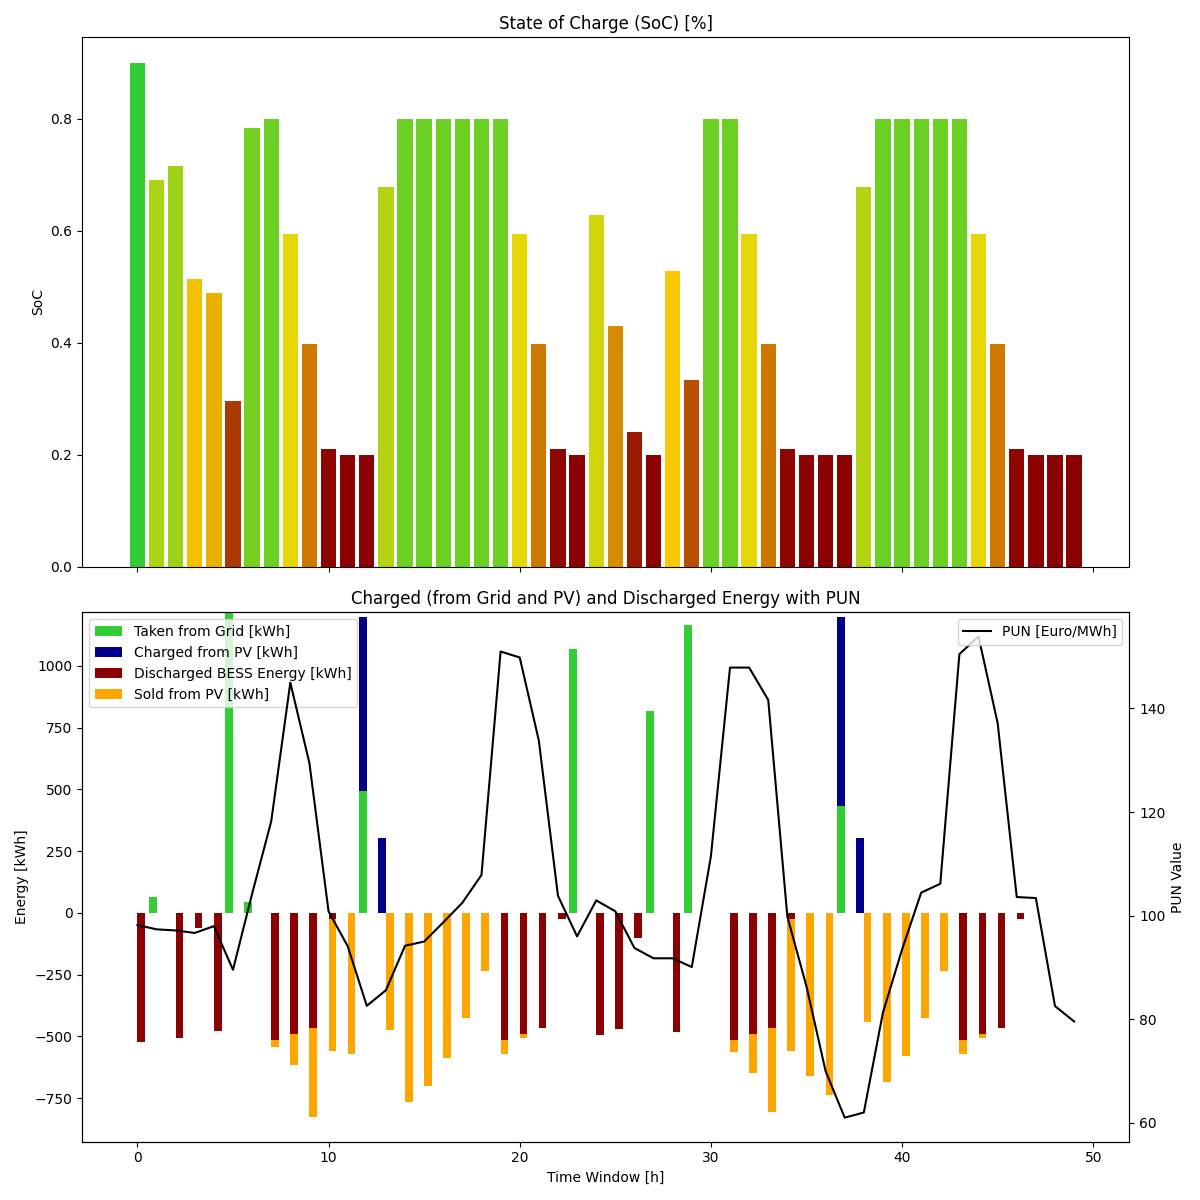
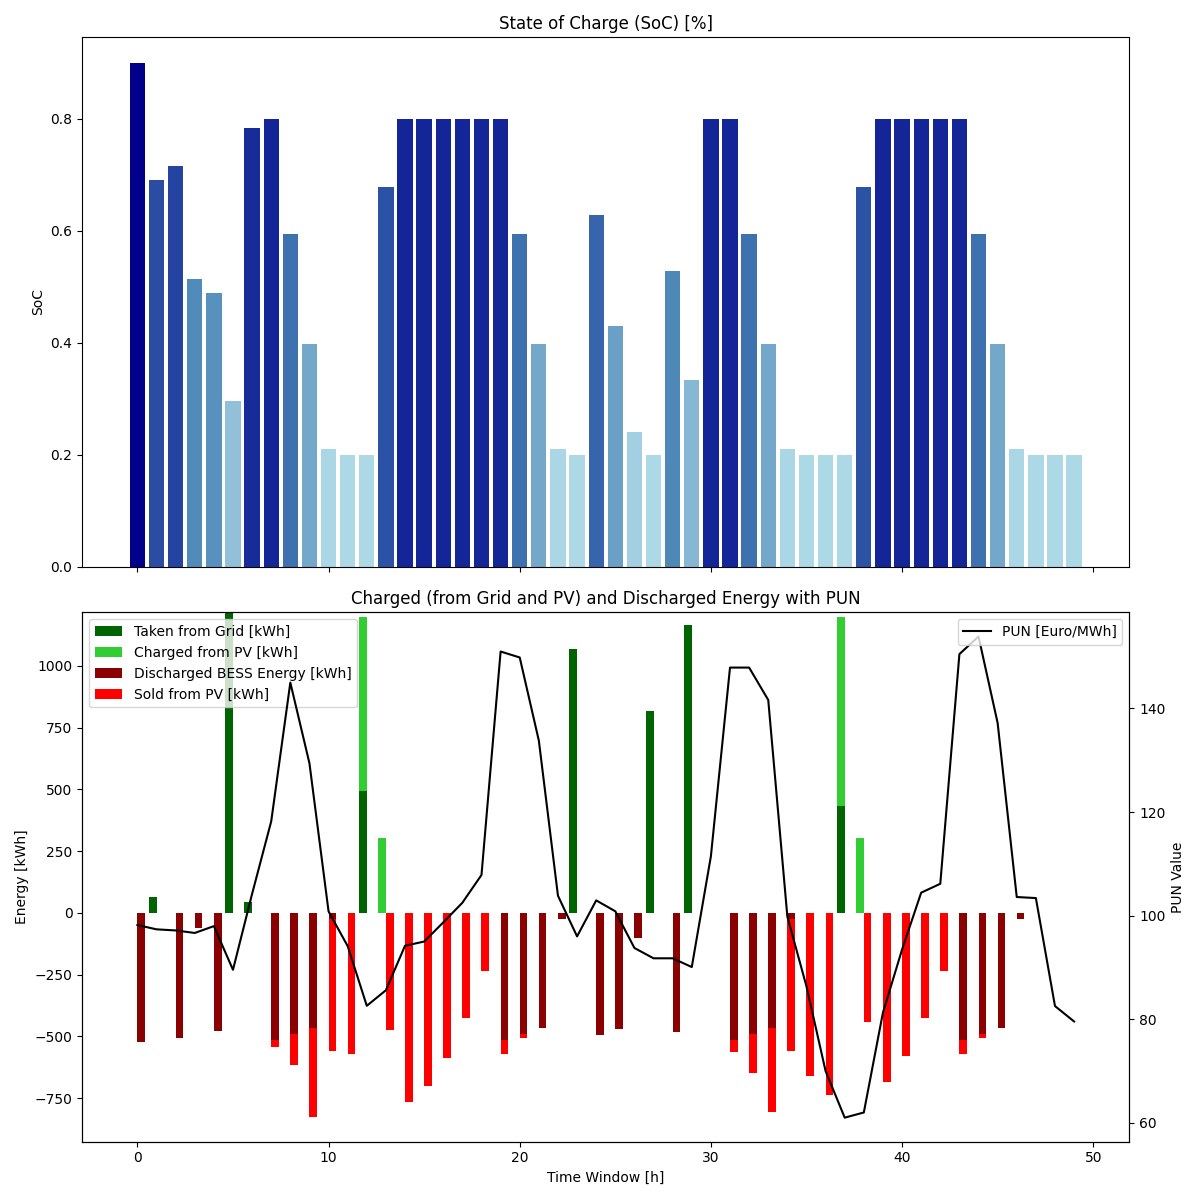
Updated plots and figures

diff --git a/Plots.py b/Plots.py
@@ -81,7 +81,7 @@ class EnergyPlots:
 
         # Normalize SoC values to be in the range [0, 1] for the colormap
         norm = Normalize(vmin=min(soc_24), vmax=max(soc_24))
-        cmap = matplotlib.colors.LinearSegmentedColormap.from_list("", ["darkred", "gold", "limegreen"])
+        cmap = matplotlib.colors.LinearSegmentedColormap.from_list("", ["lightblue", "steelblue", "darkblue"])
 
         # Plot SoC with gradient colored bars based on value
         for i in range(len(time_steps_24)):
@@ -94,15 +94,15 @@ class EnergyPlots:
         width = 0.4
 
         # Plot stacked bars for 'taken_from_grid' (green) and 'taken_from_pv' (blue)
-        ax1.bar(time_steps_24 - width / 2, taken_from_grid_24, width=width, color='limegreen',
+        ax1.bar(time_steps_24 - width / 2, taken_from_grid_24, width=width, color='darkgreen',
                 label='Taken from Grid [kWh]')
-        ax1.bar(time_steps_24 - width / 2, taken_from_pv_24, width=width, bottom=taken_from_grid_24, color='darkblue',
+        ax1.bar(time_steps_24 - width / 2, taken_from_pv_24, width=width, bottom=taken_from_grid_24, color='limegreen',
                 label='Charged from PV [kWh]')
 
         # Plot discharged energy as a separate bar (red)
         ax1.bar(time_steps_24 + width / 2, discharged_energy_24, width=width, color='darkred',
                 label='Discharged BESS Energy [kWh]')
-        ax1.bar(time_steps_24 + width / 2, -(produced_from_pv - taken_from_pv_24), bottom = discharged_energy_24, width=width, color='orange',
+        ax1.bar(time_steps_24 + width / 2, -(produced_from_pv - taken_from_pv_24), bottom = discharged_energy_24, width=width, color='red',
                 label='Sold from PV [kWh]')
 
         ax1.set_ylabel('Energy [kWh]')
